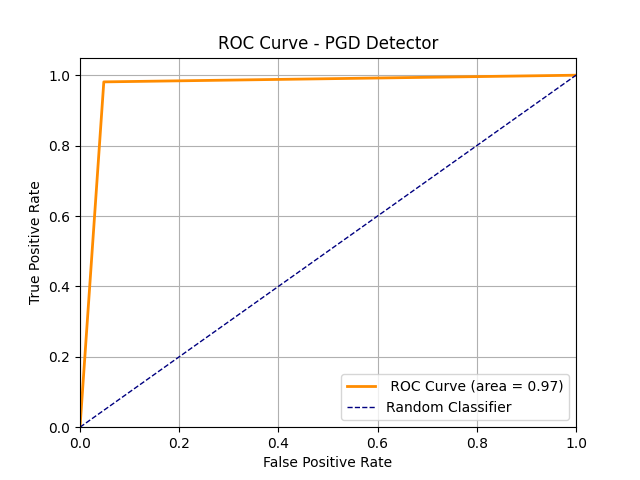
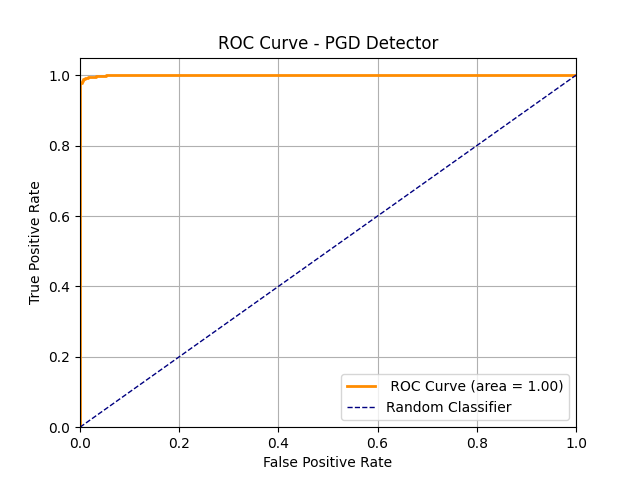
.

Changed region(s): [[0.125, 0.1562, 0.8438, 0.8438], [0.8125, 0.7812, 0.875, 0.8125]]

diff --git a/test_detectors.py b/test_detectors.py
@@ -66,7 +66,7 @@ def main():
         
         # Chiamata al detector specifico dell'attacco
         detector = detectors[attack_type]
-        _, is_adversarial = detector.detect(final_test_set)
+        report, is_adversarial = detector.detect(final_test_set)
 
         # Calcolo delle metriche di test
         y_true = final_labels
@@ -94,7 +94,10 @@ def main():
         plt.savefig(plot_dir + "/Confusion_Matrix.png")
 
         # Creazione e salvataggio della curva ROC
-        false_positive_rate, true_positive_rate, _ = roc_curve(y_true, y_pred)
+        logits = np.array(report["predictions"])
+        probs = softmax(logits, axis=1) # contiene le probabilità delle classe "clean" e "adversarial"
+        probs_adv = probs[:, 1] # contiene solo le probabilità delle classe "adversarial"
+        false_positive_rate, true_positive_rate, _ = roc_curve(y_true, probs_adv)
         roc_auc = auc(false_positive_rate, true_positive_rate)
         plt.figure()
         plt.grid()
